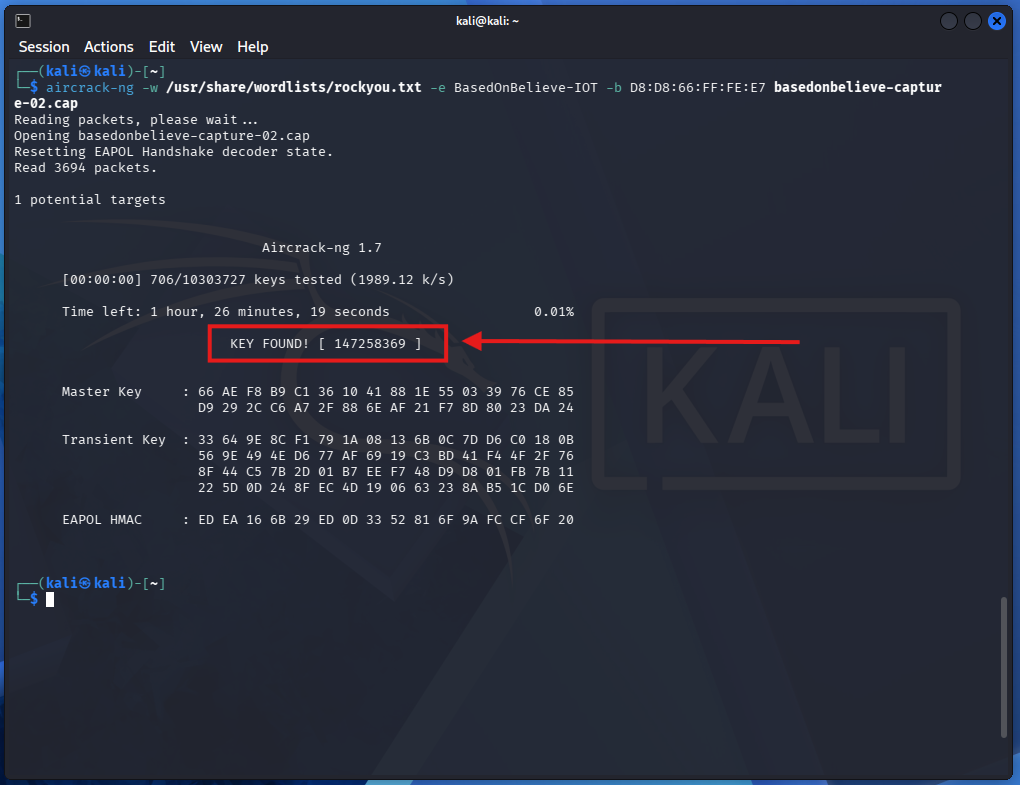
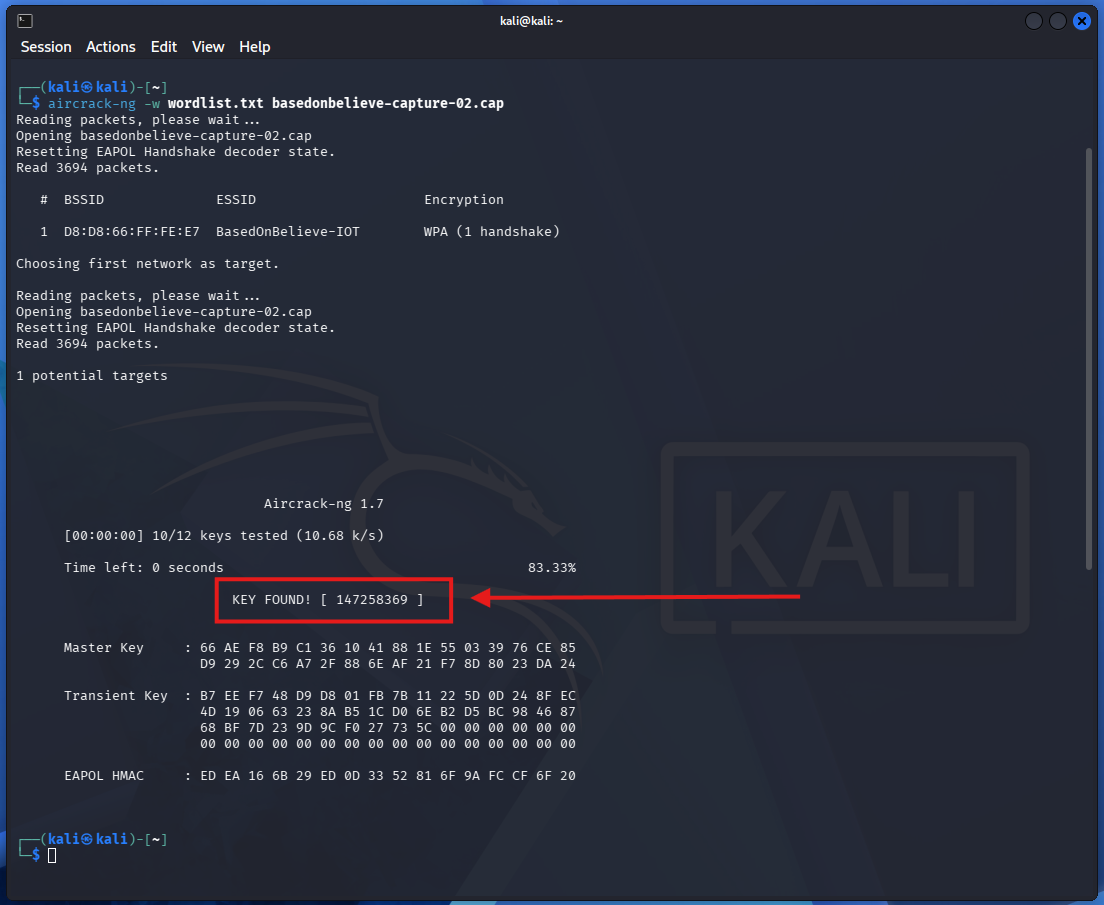
Updated step 9 of the assessment methodology
Instead of using a generic wordlist, updated the step to use a targeted wordlist

diff --git a/02-intermediate/task-4-wifi-security-assessment.md b/02-intermediate/task-4-wifi-security-assessment.md
@@ -215,7 +215,7 @@ The capture was restricted to the authorized access point and its operating chan
 
 Packet capture started
 
-> Note the client mac address in the result which will be used for the next step
+> Note the client mac address listed under the station column in the result, it will be used for the next step
 
 ### Evidence
 
@@ -232,11 +232,11 @@ While monitoring the target wireless traffic, open a new tab and send a de-authe
 ### Command
 
 ```
-sudo aireplay-ng --deauth 1 -a D8:D8:66:FF:FE:E7 -c C6:D7:D6:50:59:A3 wlan0
+sudo aireplay-ng --deauth 1 -a <target-bssid> -c <client-mac-address> <monitor-interface>
 
 And/Or
 
-sudo aireplay-ng --deauth 2 -a D8:D8:66:FF:FE:E7 -c C6:D7:D6:50:59:A3 wlan0
+sudo aireplay-ng --deauth 2 -a <target-bssid> -c <client-mac-address> <monitor-interface>
 ```
 
 Either of the command should work but if you didn’t get a handshake from sending 1 deauth packet `--deauth 1` then try sending 2 which is the second command with `--deauth 2` 
@@ -259,29 +259,7 @@ Note: high number of deauthentication messages are noisy on the network but 1 or
 
 ---
 
-# Step 7: Disable Monitor Mode
-
-Take the Wifi Adapter out of monitor mode
-
-### Command
-
-```
-sudo airmon-ng stop wlan0
-```
-
-### Result
-
-- Monitor mode disabled on the wireless adapter
-
-### Evidence
-
-**Wireless adapter monitor mode disabled**
-
-![Disable monitor mode](/assets/screenshots/02-intermediate/task-4/monitor-mode-disabled.png)
-
----
-
-# Step 8: Verify Captured Authentication Data
+# Step 7: Verify Captured Authentication Data
 
 Inspect the capture file to verify that the required authentication exchange had been captured.
 
@@ -304,7 +282,11 @@ To check the capture file for valid WPA authentication data.
 
 ### Evidence
 
-**Confirm handshake file**
+**Confirmed handshake has been captured from the monitoring terminal**
+
+![Handshake captured](/assets/screenshots/02-intermediate/task-4/handshake-captured.png)
+
+**Confirmed handshake file exist**
 
 ![Handshake file](/assets/screenshots/02-intermediate/task-4/capture-file.png)
 
@@ -314,24 +296,59 @@ To check the capture file for valid WPA authentication data.
 
 ---
 
-# Step 9: Prepare Wordlist
+# Step 8: Disable Monitor Mode
 
-Confirm the directory of your desired wordlist for offline password recovery.
+Take the Wifi Adapter out of monitor mode
 
 ### Command
 
 ```
-wordlists -l
+sudo airmon-ng stop wlan0
 ```
-For this lab, I used the `rockyou` wordlist
 
 ### Result
 
-- `rockyou.txt` present in the directory `/usr/share/wordlists/rockyou.txt`
+- Monitor mode disabled on the wireless adapter
 
 ### Evidence
 
-![Wordlists](/assets/screenshots/02-intermediate/task-4/check-for-wordlist.png)
+**Wireless adapter monitor mode disabled**
+
+![Disable monitor mode](/assets/screenshots/02-intermediate/task-4/monitor-mode-disabled.png)
+
+---
+
+# Step 9: Create a Targeted Wordlist
+
+Create a custom wordlist for the authorized network.
+
+> The purpose of the wordlist was to provide possible password candidates relevant to the controlled lab environment rather than relying exclusively on a large generic dictionary.
+
+### Command
+
+```
+nano wordlist.txt
+```
+
+Confirm presence of the targeted wordlist for offline password recovery.
+
+```
+ls | grep wordlist
+```
+### Result
+
+- Targeted wordlist created successfully
+- `wordlist.txt` present in the current working directory
+
+### Evidence
+
+**Create targeted wordlist**
+
+![Targeted wordlist](/assets/screenshots/02-intermediate/task-4/create-targeted-wordlist.png)
+
+**Confirm targeted wordlist file exist**
+
+![Wordlists](/assets/screenshots/02-intermediate/task-4/confirm-targeted-wordlist-exist.png)
 
 ---
 
@@ -406,9 +423,9 @@ Modern wireless security features such as Protected Management Frames (PMF / 802
 
 ## Finding 1: Password Exposure and Strength
 
-The wireless password was recoverable using the `rockyou` wordlist.
+The wireless password was recoverable using a targeted wordlist.
 
-This demonstrates that passwords based on predictable or discoverable information, and known data breaches can be vulnerable to offline password-guessing attacks.
+This demonstrates that passwords based on predictable or discoverable information can be vulnerable to offline password-guessing attacks.
 
 Risk: Medium
 
@@ -488,11 +505,11 @@ sudo airodump-ng -c <channel> --bssid <target-bssid> -w <output-filename> <monit
 
 ### Send a De-authentication Packet
 ```
-sudo aireplay-ng --deauth 1 -a D8:D8:66:FF:FE:E7 -c C6:D7:D6:50:59:A3 wlan0
+sudo aireplay-ng --deauth 1 -a <target-bssid> -c <client-mac-address> <monitor-interface>
 
 And/Or
 
-sudo aireplay-ng --deauth 2 -a D8:D8:66:FF:FE:E7 -c C6:D7:D6:50:59:A3 wlan0
+sudo aireplay-ng --deauth 2 -a <target-bssid> -c <client-mac-address> <monitor-interface>
 ```
 
 ### Disable Monitor Mode
@@ -506,9 +523,10 @@ ls | grep <search term>
 aircrack-ng <capture-file>
 ```
 
-### Prepare Wordlist
+### Create wordlist
 ```
-wordlists -l
+nano wordlist.txt
+ls | grep wordlist
 ```
 
 ### Perform offline password recovery
